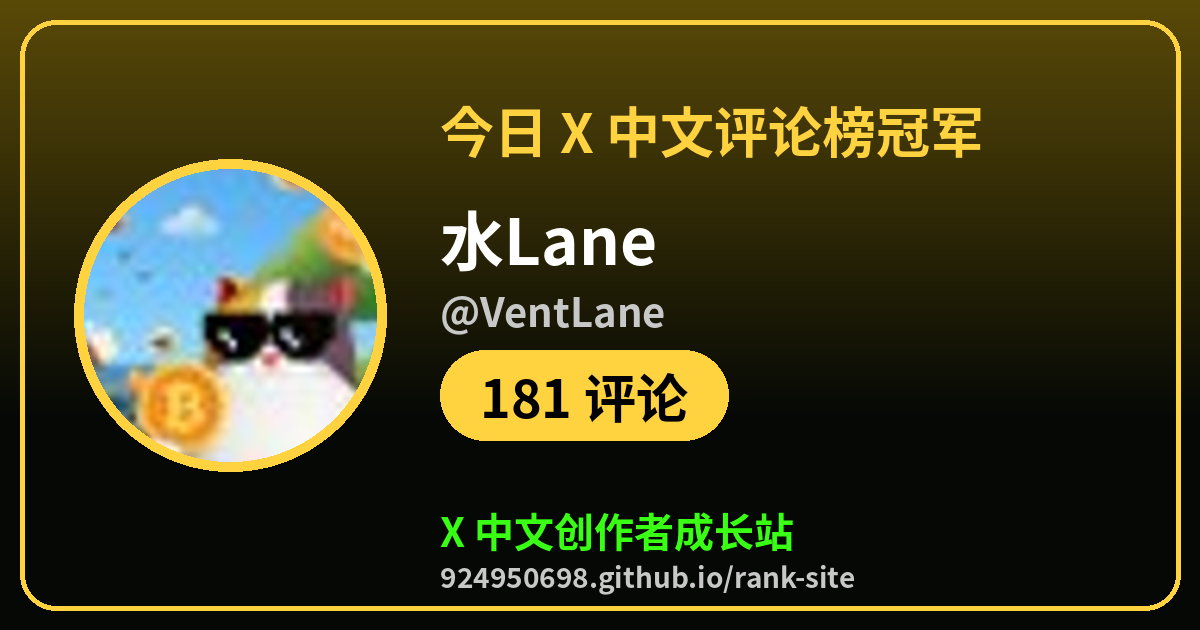
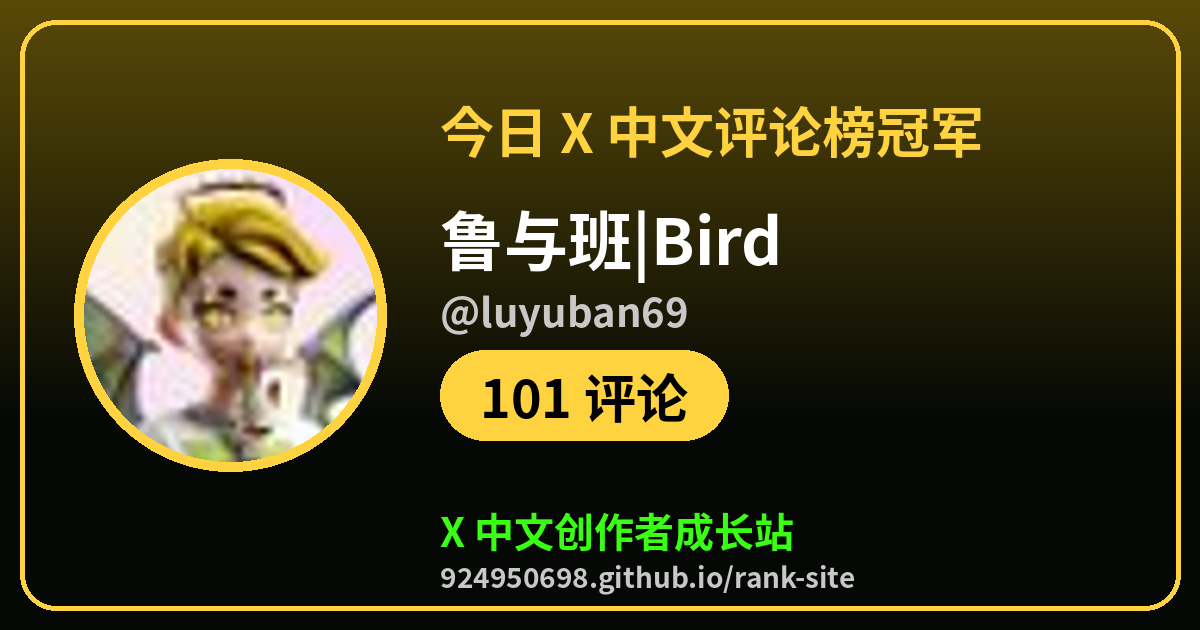
champ: 2026-10-17 21:21 CST

Changed region(s): [[0.0617, 0.2714, 0.3392, 0.754], [0.37, 0.3317, 0.6475, 0.5429], [0.4317, 0.6032, 0.4625, 0.6635]]

diff --git a/champ/comments.html b/champ/comments.html
@@ -1,7 +1,7 @@
 <!doctype html><html lang="zh-CN"><head><meta charset="utf-8"><meta name="viewport" content="width=device-width,initial-scale=1">
-<title>今日 X 中文评论榜冠军：水Lane💧（@VentLane）</title><meta name="description" content="181 评论，来看看今天谁在爆，你排第几">
-<meta property="og:type" content="website"><meta property="og:url" content="https://924950698.github.io/rank-site/champ/comments.html"><meta property="og:title" content="今日 X 中文评论榜冠军：水Lane💧（@VentLane）"><meta property="og:description" content="181 评论，来看看今天谁在爆，你排第几">
-<meta property="og:image" content="https://924950698.github.io/rank-site/champ/comments.png?v=20261017T1202"><meta name="twitter:card" content="summary_large_image"><meta name="twitter:site" content="@tigerr3aue">
-<meta name="twitter:title" content="今日 X 中文评论榜冠军：水Lane💧（@VentLane）"><meta name="twitter:description" content="181 评论，来看看今天谁在爆，你排第几"><meta name="twitter:image" content="https://924950698.github.io/rank-site/champ/comments.png?v=20261017T1202">
-<meta http-equiv="refresh" content="0;url=https://924950698.github.io/rank-site/?champ=VentLane&amp;board=comments#rank"><script>location.replace("https://924950698.github.io/rank-site/?champ=VentLane&board=comments#rank")</script></head>
-<body style="background:#000;color:#fff;font-family:sans-serif;text-align:center;padding:40px"><a href="https://924950698.github.io/rank-site/?champ=VentLane&amp;board=comments#rank" style="color:#39ff14">去 X 中文创作者成长站看冠军卡片</a></body></html>
+<title>今日 X 中文评论榜冠军：鲁与班|Bird🕊（@luyuban69）</title><meta name="description" content="101 评论，来看看今天谁在爆，你排第几">
+<meta property="og:type" content="website"><meta property="og:url" content="https://924950698.github.io/rank-site/champ/comments.html"><meta property="og:title" content="今日 X 中文评论榜冠军：鲁与班|Bird🕊（@luyuban69）"><meta property="og:description" content="101 评论，来看看今天谁在爆，你排第几">
+<meta property="og:image" content="https://924950698.github.io/rank-site/champ/comments.png?v=20261017T1307"><meta name="twitter:card" content="summary_large_image"><meta name="twitter:site" content="@tigerr3aue">
+<meta name="twitter:title" content="今日 X 中文评论榜冠军：鲁与班|Bird🕊（@luyuban69）"><meta name="twitter:description" content="101 评论，来看看今天谁在爆，你排第几"><meta name="twitter:image" content="https://924950698.github.io/rank-site/champ/comments.png?v=20261017T1307">
+<meta http-equiv="refresh" content="0;url=https://924950698.github.io/rank-site/?champ=luyuban69&amp;board=comments#rank"><script>location.replace("https://924950698.github.io/rank-site/?champ=luyuban69&board=comments#rank")</script></head>
+<body style="background:#000;color:#fff;font-family:sans-serif;text-align:center;padding:40px"><a href="https://924950698.github.io/rank-site/?champ=luyuban69&amp;board=comments#rank" style="color:#39ff14">去 X 中文创作者成长站看冠军卡片</a></body></html>

diff --git a/champ/exposure.html b/champ/exposure.html
@@ -1,7 +1,7 @@
 <!doctype html><html lang="zh-CN"><head><meta charset="utf-8"><meta name="viewport" content="width=device-width,initial-scale=1">
-<title>今日 X 中文曝光榜冠军：RamenPanda（@IamRamenPanda）</title><meta name="description" content="2.5万 曝光，来看看今天谁在爆，你排第几">
-<meta property="og:type" content="website"><meta property="og:url" content="https://924950698.github.io/rank-site/champ/exposure.html"><meta property="og:title" content="今日 X 中文曝光榜冠军：RamenPanda（@IamRamenPanda）"><meta property="og:description" content="2.5万 曝光，来看看今天谁在爆，你排第几">
-<meta property="og:image" content="https://924950698.github.io/rank-site/champ/exposure.png?v=20261017T1202"><meta name="twitter:card" content="summary_large_image"><meta name="twitter:site" content="@tigerr3aue">
-<meta name="twitter:title" content="今日 X 中文曝光榜冠军：RamenPanda（@IamRamenPanda）"><meta name="twitter:description" content="2.5万 曝光，来看看今天谁在爆，你排第几"><meta name="twitter:image" content="https://924950698.github.io/rank-site/champ/exposure.png?v=20261017T1202">
+<title>今日 X 中文曝光榜冠军：RamenPanda（@IamRamenPanda）</title><meta name="description" content="2.6万 曝光，来看看今天谁在爆，你排第几">
+<meta property="og:type" content="website"><meta property="og:url" content="https://924950698.github.io/rank-site/champ/exposure.html"><meta property="og:title" content="今日 X 中文曝光榜冠军：RamenPanda（@IamRamenPanda）"><meta property="og:description" content="2.6万 曝光，来看看今天谁在爆，你排第几">
+<meta property="og:image" content="https://924950698.github.io/rank-site/champ/exposure.png?v=20261017T1307"><meta name="twitter:card" content="summary_large_image"><meta name="twitter:site" content="@tigerr3aue">
+<meta name="twitter:title" content="今日 X 中文曝光榜冠军：RamenPanda（@IamRamenPanda）"><meta name="twitter:description" content="2.6万 曝光，来看看今天谁在爆，你排第几"><meta name="twitter:image" content="https://924950698.github.io/rank-site/champ/exposure.png?v=20261017T1307">
 <meta http-equiv="refresh" content="0;url=https://924950698.github.io/rank-site/?champ=IamRamenPanda&amp;board=exposure#rank"><script>location.replace("https://924950698.github.io/rank-site/?champ=IamRamenPanda&board=exposure#rank")</script></head>
 <body style="background:#000;color:#fff;font-family:sans-serif;text-align:center;padding:40px"><a href="https://924950698.github.io/rank-site/?champ=IamRamenPanda&amp;board=exposure#rank" style="color:#39ff14">去 X 中文创作者成长站看冠军卡片</a></body></html>

diff --git a/champ/rising.html b/champ/rising.html
@@ -1,7 +1,7 @@
 <!doctype html><html lang="zh-CN"><head><meta charset="utf-8"><meta name="viewport" content="width=device-width,initial-scale=1">
-<title>今日 X 中文新号进步榜冠军：NiRox（@nirox0216）</title><meta name="description" content="+441 粉，来看看今天谁在爆，你排第几">
-<meta property="og:type" content="website"><meta property="og:url" content="https://924950698.github.io/rank-site/champ/rising.html"><meta property="og:title" content="今日 X 中文新号进步榜冠军：NiRox（@nirox0216）"><meta property="og:description" content="+441 粉，来看看今天谁在爆，你排第几">
-<meta property="og:image" content="https://924950698.github.io/rank-site/champ/rising.png?v=20261017T1202"><meta name="twitter:card" content="summary_large_image"><meta name="twitter:site" content="@tigerr3aue">
-<meta name="twitter:title" content="今日 X 中文新号进步榜冠军：NiRox（@nirox0216）"><meta name="twitter:description" content="+441 粉，来看看今天谁在爆，你排第几"><meta name="twitter:image" content="https://924950698.github.io/rank-site/champ/rising.png?v=20261017T1202">
+<title>今日 X 中文新号进步榜冠军：NiRox（@nirox0216）</title><meta name="description" content="+400 粉，来看看今天谁在爆，你排第几">
+<meta property="og:type" content="website"><meta property="og:url" content="https://924950698.github.io/rank-site/champ/rising.html"><meta property="og:title" content="今日 X 中文新号进步榜冠军：NiRox（@nirox0216）"><meta property="og:description" content="+400 粉，来看看今天谁在爆，你排第几">
+<meta property="og:image" content="https://924950698.github.io/rank-site/champ/rising.png?v=20261017T1307"><meta name="twitter:card" content="summary_large_image"><meta name="twitter:site" content="@tigerr3aue">
+<meta name="twitter:title" content="今日 X 中文新号进步榜冠军：NiRox（@nirox0216）"><meta name="twitter:description" content="+400 粉，来看看今天谁在爆，你排第几"><meta name="twitter:image" content="https://924950698.github.io/rank-site/champ/rising.png?v=20261017T1307">
 <meta http-equiv="refresh" content="0;url=https://924950698.github.io/rank-site/?champ=nirox0216&amp;board=rising#rank"><script>location.replace("https://924950698.github.io/rank-site/?champ=nirox0216&board=rising#rank")</script></head>
 <body style="background:#000;color:#fff;font-family:sans-serif;text-align:center;padding:40px"><a href="https://924950698.github.io/rank-site/?champ=nirox0216&amp;board=rising#rank" style="color:#39ff14">去 X 中文创作者成长站看冠军卡片</a></body></html>

diff --git a/champ/growth.html b/champ/growth.html
@@ -1,7 +1,7 @@
 <!doctype html><html lang="zh-CN"><head><meta charset="utf-8"><meta name="viewport" content="width=device-width,initial-scale=1">
 <title>今日 X 中文涨粉榜冠军：Datcal（@Datcalx）</title><meta name="description" content="+551 粉，来看看今天谁在爆，你排第几">
 <meta property="og:type" content="website"><meta property="og:url" content="https://924950698.github.io/rank-site/champ/growth.html"><meta property="og:title" content="今日 X 中文涨粉榜冠军：Datcal（@Datcalx）"><meta property="og:description" content="+551 粉，来看看今天谁在爆，你排第几">
-<meta property="og:image" content="https://924950698.github.io/rank-site/champ/growth.png?v=20261017T1202"><meta name="twitter:card" content="summary_large_image"><meta name="twitter:site" content="@tigerr3aue">
-<meta name="twitter:title" content="今日 X 中文涨粉榜冠军：Datcal（@Datcalx）"><meta name="twitter:description" content="+551 粉，来看看今天谁在爆，你排第几"><meta name="twitter:image" content="https://924950698.github.io/rank-site/champ/growth.png?v=20261017T1202">
+<meta property="og:image" content="https://924950698.github.io/rank-site/champ/growth.png?v=20261017T1307"><meta name="twitter:card" content="summary_large_image"><meta name="twitter:site" content="@tigerr3aue">
+<meta name="twitter:title" content="今日 X 中文涨粉榜冠军：Datcal（@Datcalx）"><meta name="twitter:description" content="+551 粉，来看看今天谁在爆，你排第几"><meta name="twitter:image" content="https://924950698.github.io/rank-site/champ/growth.png?v=20261017T1307">
 <meta http-equiv="refresh" content="0;url=https://924950698.github.io/rank-site/?champ=Datcalx&amp;board=growth#rank"><script>location.replace("https://924950698.github.io/rank-site/?champ=Datcalx&board=growth#rank")</script></head>
 <body style="background:#000;color:#fff;font-family:sans-serif;text-align:center;padding:40px"><a href="https://924950698.github.io/rank-site/?champ=Datcalx&amp;board=growth#rank" style="color:#39ff14">去 X 中文创作者成长站看冠军卡片</a></body></html>
